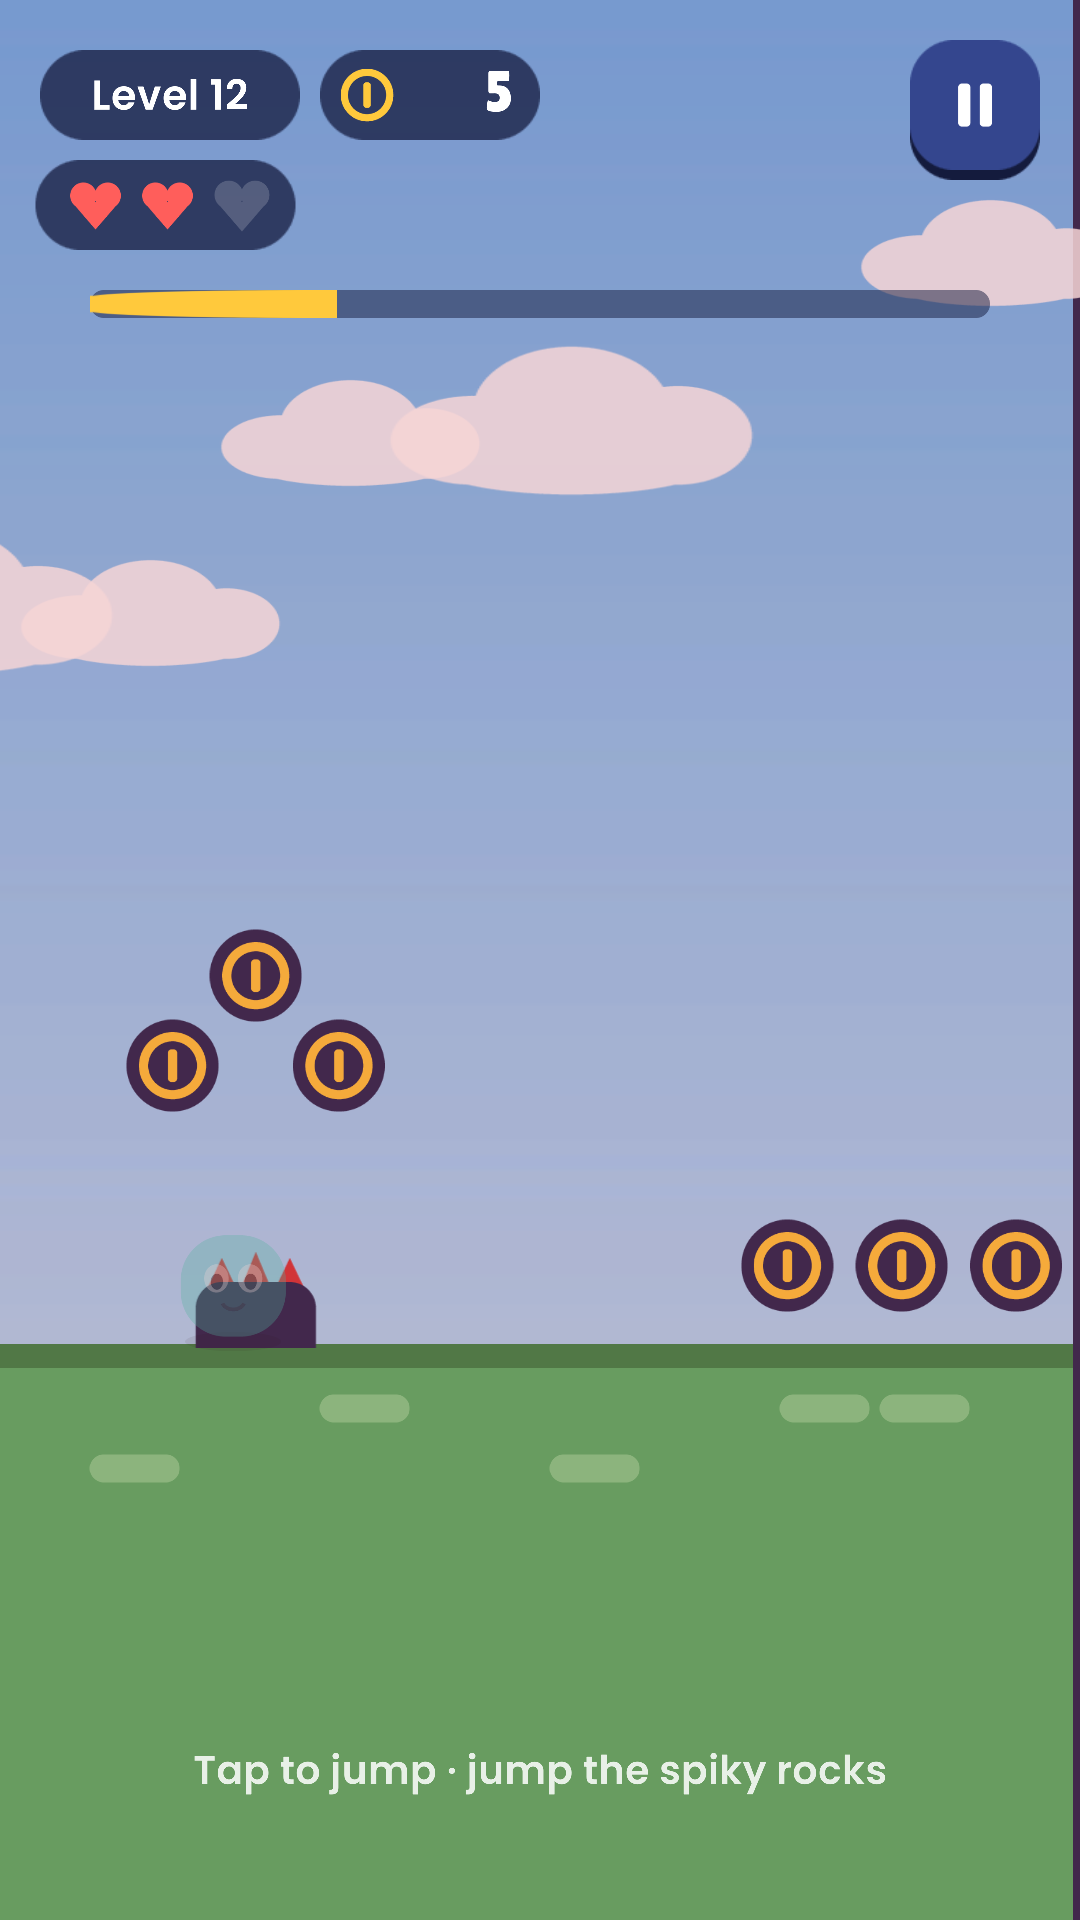
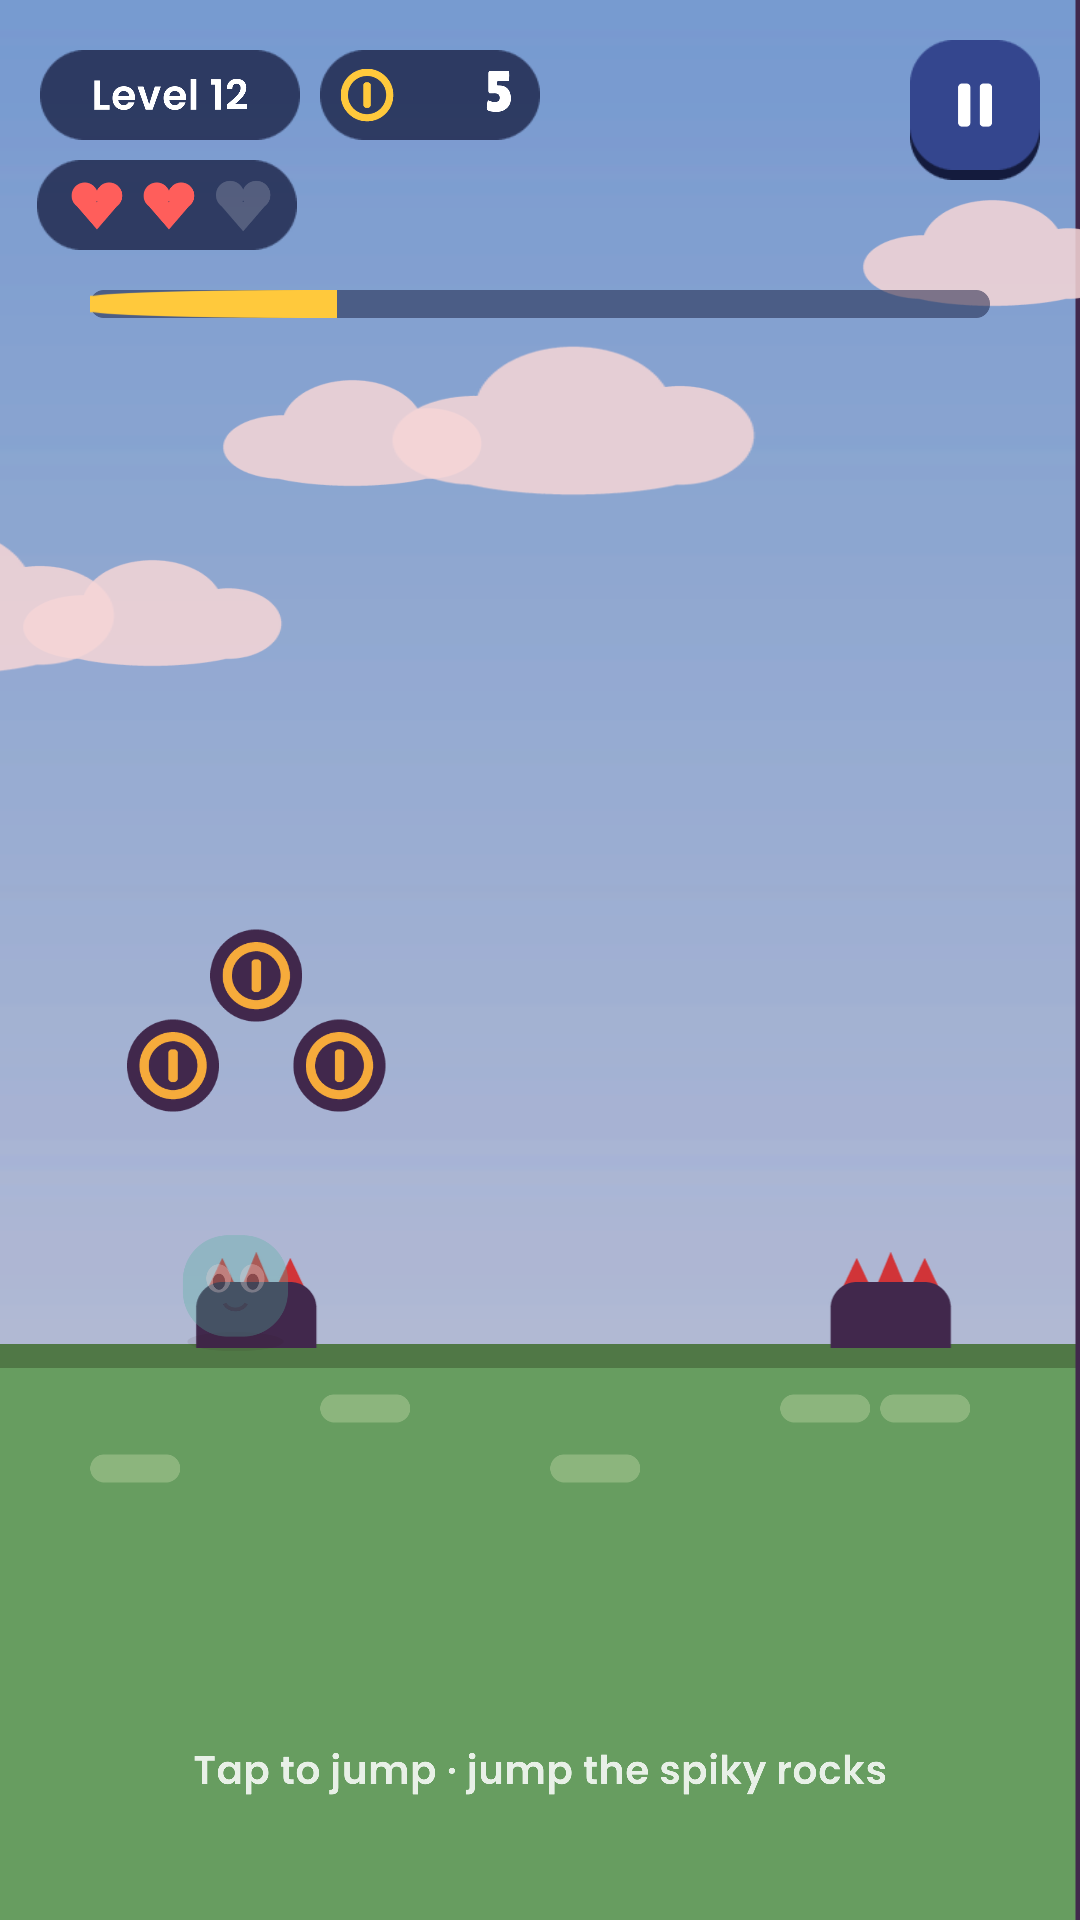
a lone rock after each coin arc from level 2, so every level from 2 on can be lost

Changed region(s): [[0.6722, 0.1562, 1.0, 1.0], [0.9778, 0.0, 1.0, 0.125], [0.2139, 0.6562, 0.2444, 0.6875]]

diff --git a/Assets/Scripts/Game/RunController.cs b/Assets/Scripts/Game/RunController.cs
@@ -75,23 +75,9 @@ public class RunController : MonoBehaviour
         length = 9f + level * 0.75f;
         Clear(coins);
         Clear(rocks);
-        // runs of ground coins, then an arc in the air that follows a jump, often with a rock under it
-        var rng = new System.Random(level * 97);
-        float rockChance = Mathf.Min(0.9f, 0.3f + level * 0.08f);
-        int arc = 0;
-        for (float at = 1.4f; at < length - 1f;)
-        {
-            int ground = rng.Next(2, 4);
-            for (int i = 0; i < ground; i++, at += 0.22f) Add(coins, coinTemplate, coinLayer, at, 0f);
-            at += 0.5f;
-            Add(coins, coinTemplate, coinLayer, at, 200f);
-            Add(coins, coinTemplate, coinLayer, at + 0.16f, 290f);
-            Add(coins, coinTemplate, coinLayer, at + 0.32f, 200f);
-            // the first arc never has a rock (you learn to jump for coins first), the second always has one
-            if (arc == 1 || (arc > 1 && rng.NextDouble() < rockChance)) Add(rocks, rockTemplate, rockLayer, at + 0.16f, 0f);
-            arc++;
-            at += 0.48f + 0.7f + (float)rng.NextDouble() * 0.4f;
-        }
+        Layout(level, length, out var coinSpots, out var rockSpots);
+        foreach (var c in coinSpots) Add(coins, coinTemplate, coinLayer, c.x, c.y);
+        foreach (float r in rockSpots) Add(rocks, rockTemplate, rockLayer, r, 0f);
 
         time = 0f; y = 0f; vy = 0f; grounded = true; running = false; safeUntil = -1f;
         Collected = 0;
@@ -99,6 +85,41 @@ public class RunController : MonoBehaviour
         hopperColor.color = GameData.Hoppers[GameData.Selected].color;
         Place();
         Prepared?.Invoke(level);
+    }
+
+    // Where everything goes, in seconds along the run (coins also have a height). The same level always
+    // gets the same layout. Runs of ground coins, then an arc of coins in the air that follows a jump:
+    // - the first arc never has a rock under it (you learn to jump for coins first), the second always does,
+    //   later ones more often in later levels;
+    // - from level 2, a lone rock sits in the gap after every arc but the first, with room to land and
+    //   jump again, so every level from 2 on can cost all three hearts.
+    public static void Layout(int level, float length, out List<Vector2> coinSpots, out List<float> rockSpots)
+    {
+        coinSpots = new List<Vector2>();
+        rockSpots = new List<float>();
+        var rng = new System.Random(level * 97);
+        float rockChance = Mathf.Min(0.9f, 0.3f + level * 0.08f);
+        int arc = 0;
+        for (float at = 1.4f; at < length - 1f;)
+        {
+            int ground = rng.Next(2, 4);
+            for (int i = 0; i < ground; i++, at += 0.22f) coinSpots.Add(new Vector2(at, 0f));
+            at += 0.5f;
+            coinSpots.Add(new Vector2(at, 200f));
+            coinSpots.Add(new Vector2(at + 0.16f, 290f));
+            coinSpots.Add(new Vector2(at + 0.32f, 200f));
+            if (arc == 1 || (arc > 1 && rng.NextDouble() < rockChance)) rockSpots.Add(at + 0.16f);
+            at += 0.48f;
+            if (level >= 2 && arc >= 1)
+            {
+                // land from the arc's jump, then jump again
+                at += 0.9f;
+                rockSpots.Add(at);
+                at += 0.3f;
+            }
+            arc++;
+            at += 0.7f + (float)rng.NextDouble() * 0.4f;
+        }
     }
 
     void Clear(List<Spot> list)

diff --git a/README.md b/README.md
@@ -209,7 +209,7 @@ A test counts the listeners on the live run:
 
 ## 8. Changes to the game
 
-- **Rocks.** Rocks with red spikes sit under some of the coin arcs. The first arc of a level never has one, the second always does, and later ones are more likely in later levels. Jumping for the coins clears the rock, so there's a reason to jump.
+- **Rocks.** Rocks with red spikes sit under some of the coin arcs. The first arc of a level never has one, the second always does, and later ones are more likely in later levels. Jumping for the coins clears the rock, so there's a reason to jump. From Level 2, a lone rock also sits in the gap after each arc, with room to land and jump again. Level 1 has 2 rocks, and every later level has 3 to 7, so from Level 2 on you can lose all three hearts.
 - **Three hearts** in the HUD. A hit costs one and gives 1.2 s when you can't be hurt again (the hopper blinks).
 - **Losing.** With no hearts left, the run ends: "Ouch!", then Results says **Out of hearts!**. You get no stars, but you keep the coins you picked up. Retry comes first, and Next only shows if the next level was already open.
 - **The HUD** is the Game screen in `SkyHop`. The world (sky, ground, coins, rocks, hopper) is in `Gameplay`. A tap anywhere on the HUD jumps.
